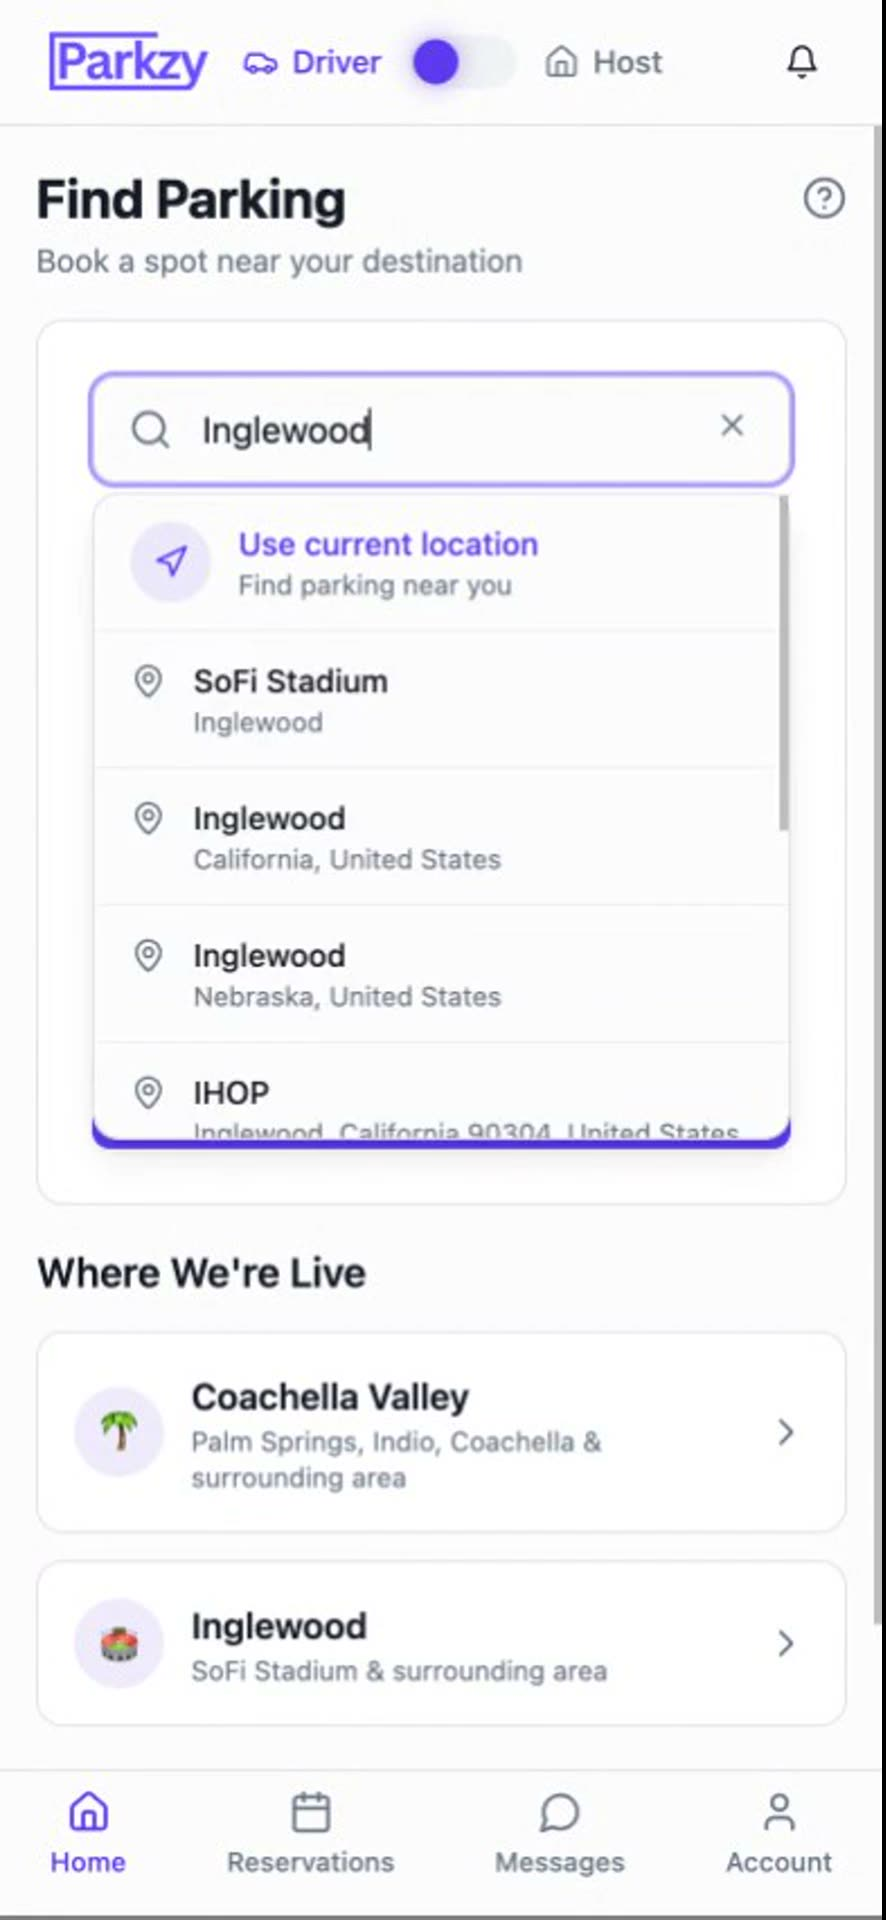
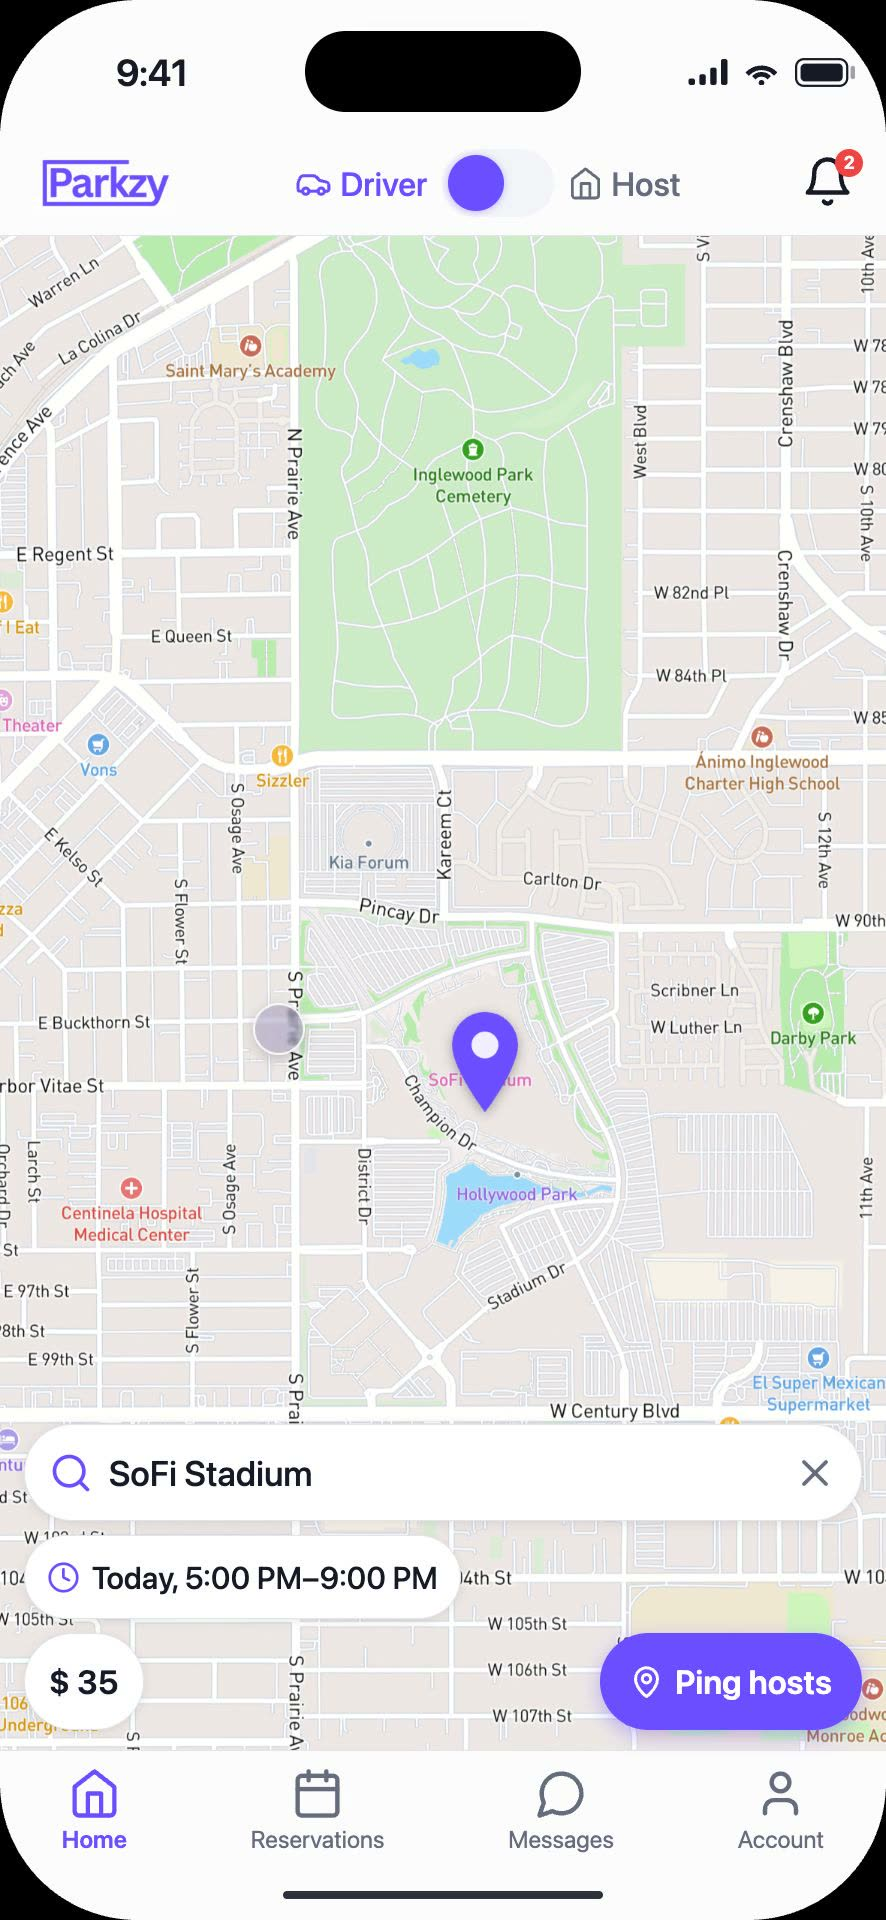
Parkzy walkthrough: swap old recording for a fresh Remotion render
Milad flagged the May screen recording as an outdated version of the app.
The walkthrough now uses the Parkway repo's Remotion demo pipeline
(parkzy-demo-video, composition ParkzyPingDemo) — a code-rendered,
frame-accurate representation of the CURRENT ping-based product —
re-rendered fresh from source (newer than the repo's last render),
trimmed before the App Store outro, and re-encoded for web (2.5MB).

- New flow steps synced to the composition's TIMING table (30fps):
  search / explore map / name your price / ping hosts / a host accepts /
  you're booked.
- Added a scrubber under the phone — frame-level control like a mini
  Remotion Studio; pauses while dragging, resumes on release.
- Step chips still highlight live and seek on tap; autoplay-when-visible
  and reduced-motion behavior unchanged.

diff --git a/public/work/parkzy/demo.js b/public/work/parkzy/demo.js
@@ -1,20 +1,20 @@
-/* Parkzy walkthrough — the REAL app, not a mock. Self-contained, no deps.
- * Boots when #pk-walk is on the page (injected by project/main.ts).
+/* Parkzy walkthrough — code-rendered from the app's Remotion demo pipeline
+ * (Parkway/parkzy-demo-video, composition ParkzyPingDemo), so it always
+ * matches the current product. Self-contained, no deps; boots when #pk-walk
+ * is on the page (injected by project/main.ts).
  *
- * A screen recording of the actual product books a real spot near SoFi
- * Stadium. Step chips are synced to the recording's beat timestamps
- * (from the demo-recorder's beats.json): they highlight as the video plays,
- * and clicking one seeks the video to that moment.
+ * Interactions: step chips highlight in sync with the video (timestamps from
+ * the composition's TIMING table, 30fps), clicking a step seeks the video,
+ * and the scrubber gives frame-level control like a mini Remotion Studio.
  */
 (() => {
   const root = document.getElementById("pk-walk");
   if (!root) return;
 
   const video = root.querySelector("#pk-video");
+  const scrub = root.querySelector("#pk-scrub");
   const steps = [...root.querySelectorAll(".pk-flow button")];
   const reduced = window.matchMedia("(prefers-reduced-motion: reduce)").matches;
-
-  if (reduced) video.setAttribute("controls", "");
 
   const times = steps.map((b) => parseFloat(b.dataset.t));
 
@@ -25,11 +25,16 @@
     });
   };
 
+  let scrubbing = false;
+
   video.addEventListener("timeupdate", () => {
     const t = video.currentTime;
     let i = 0;
-    for (let j = 0; j < times.length; j++) if (t >= times[j] - 0.2) i = j;
+    for (let j = 0; j < times.length; j++) if (t >= times[j] - 0.25) i = j;
     setActive(i);
+    if (!scrubbing && video.duration) {
+      scrub.value = Math.round((t / video.duration) * 1000);
+    }
   });
 
   steps.forEach((b, i) => {
@@ -40,12 +45,34 @@
     });
   });
 
+  // Scrubber: pause while dragging (frame-accurate feel), resume on release.
+  const seekToScrub = () => {
+    if (video.duration) video.currentTime = (scrub.value / 1000) * video.duration;
+  };
+  scrub.addEventListener("pointerdown", () => {
+    scrubbing = true;
+    video.pause();
+  });
+  scrub.addEventListener("input", seekToScrub);
+  const endScrub = () => {
+    if (!scrubbing) return;
+    scrubbing = false;
+    if (!reduced) video.play().catch(() => {});
+  };
+  scrub.addEventListener("pointerup", endScrub);
+  scrub.addEventListener("pointercancel", endScrub);
+  scrub.addEventListener("change", () => {
+    seekToScrub();
+    endScrub();
+  });
+
   // Play while visible, pause offscreen (saves battery, respects attention).
   if (!reduced && "IntersectionObserver" in window) {
     new IntersectionObserver(
       (entries) => {
-        if (entries[0].isIntersecting) video.play().catch(() => {});
-        else video.pause();
+        if (entries[0].isIntersecting) {
+          if (!scrubbing) video.play().catch(() => {});
+        } else video.pause();
       },
       { threshold: 0.35 }
     ).observe(video);

diff --git a/src/styles/project.css b/src/styles/project.css
@@ -571,6 +571,36 @@
 @media (min-width: 760px) {
   .pk-walk { grid-template-columns: minmax(240px, 320px) 1fr; align-items: center; }
 }
+.pk-side { display: grid; gap: 0.8rem; justify-items: center; }
+.pk-scrub {
+  -webkit-appearance: none;
+  appearance: none;
+  width: min(100%, 300px);
+  height: 5px;
+  border-radius: 999px;
+  background: rgba(255, 255, 255, 0.1);
+  outline: none;
+  cursor: none;
+}
+.pk-scrub::-webkit-slider-thumb {
+  -webkit-appearance: none;
+  appearance: none;
+  width: 16px;
+  height: 16px;
+  border-radius: 50%;
+  background: var(--cyan);
+  border: 2px solid #04060a;
+  box-shadow: 0 0 10px rgba(42, 245, 255, 0.6);
+}
+.pk-scrub::-moz-range-thumb {
+  width: 16px;
+  height: 16px;
+  border-radius: 50%;
+  background: var(--cyan);
+  border: 2px solid #04060a;
+  box-shadow: 0 0 10px rgba(42, 245, 255, 0.6);
+}
+.pk-scrub:focus-visible { outline: 2px solid var(--cyan); outline-offset: 4px; }
 .pk-phone {
   justify-self: center;
   width: min(100%, 300px);

diff --git a/work/parkzy/index.html b/work/parkzy/index.html
@@ -47,18 +47,22 @@
     </section>
       <section class="proj__section" data-reveal><div class="proj-award"><span class="proj-award__badge">★ 5.0</span><div class="proj-award__body"><b>Rated 5.0 on the App Store — live in production</b><span>Shipping as <a href="https://apps.apple.com/us/app/parkzy-find-parking-nearby/id6758564230" target="_blank" rel="noopener">Parkzy: Find Parking Nearby</a></span></div></div></section>
       <section class="proj__section" data-reveal>
-        <h2>Watch the Real Thing</h2>
-        <p>No mockups — this is a screen recording of the actual product booking a real spot near SoFi Stadium: search, live map, host's lot, order summary, pay. The steps follow along as it plays; tap one to jump the video there.</p>
+        <h2>Skip the Search. Ping a Host Instead.</h2>
+        <p>The whole product, frame-accurate: this walkthrough is <strong>rendered from code with Remotion</strong> — the same pipeline that renders Parkzy's App Store previews — so it's always the current app. The steps follow along as it plays; tap one (or scrub) to jump anywhere.</p>
         <div class="pk-walk" id="pk-walk" data-demo="parkzy">
-          <div class="pk-phone">
-            <video id="pk-video" src="parkzy-demo.mp4" poster="pk-poster.jpg" muted loop playsinline preload="metadata" aria-label="Screen recording of booking a parking spot in the Parkzy app"></video>
+          <div class="pk-side">
+            <div class="pk-phone">
+              <video id="pk-video" src="parkzy-ping-demo.mp4" poster="pk-poster.jpg" muted loop playsinline preload="metadata" aria-label="Code-rendered walkthrough of pinging a host and booking a spot in the Parkzy app"></video>
+            </div>
+            <input type="range" class="pk-scrub" id="pk-scrub" min="0" max="1000" value="0" step="1" aria-label="Scrub the walkthrough" />
           </div>
           <ol class="pk-flow" aria-label="Booking flow">
-            <li><button data-t="0" class="is-active" aria-current="step"><i>01</i><div><b>Search</b><span>Where and when — Inglewood, by SoFi Stadium.</span></div></button></li>
-            <li><button data-t="4.53" aria-current="false"><i>02</i><div><b>Explore the map</b><span>Real spots from real hosts, live prices.</span></div></button></li>
-            <li><button data-t="7.04" aria-current="false"><i>03</i><div><b>Pick a spot</b><span>$44 event lot · 0.3 mi · 6 min walk.</span></div></button></li>
-            <li><button data-t="12.4" aria-current="false"><i>04</i><div><b>Review</b><span>Host, hours, your car, price breakdown.</span></div></button></li>
-            <li><button data-t="16.19" aria-current="false"><i>05</i><div><b>Pay</b><span>Saved card or Apple Pay. You're parked.</span></div></button></li>
+            <li><button data-t="2.2" class="is-active" aria-current="step"><i>01</i><div><b>Search</b><span>Where to? SoFi Stadium, game night.</span></div></button></li>
+            <li><button data-t="6.9" aria-current="false"><i>02</i><div><b>Explore the map</b><span>Hosts within walking distance, live prices.</span></div></button></li>
+            <li><button data-t="11.0" aria-current="false"><i>03</i><div><b>Name your price</b><span>What's it worth to you? You set the number.</span></div></button></li>
+            <li><button data-t="14.9" aria-current="false"><i>04</i><div><b>Ping hosts</b><span>One request to every host you pick — at once.</span></div></button></li>
+            <li><button data-t="24.0" aria-current="false"><i>05</i><div><b>A host accepts</b><span>Real humans on the other side — one tap to earn.</span></div></button></li>
+            <li><button data-t="30.5" aria-current="false"><i>06</i><div><b>You're booked</b><span>Address, hours, your car. Drive up, pull in, done.</span></div></button></li>
           </ol>
         </div>
         <div class="pk-stats">
@@ -66,7 +70,7 @@
           <div class="pk-stat"><b>&lt;60s</b><span>typical host response</span></div>
           <div class="pk-stat"><b>100%</b><span>in-app payment — no cash, no Venmo</span></div>
         </div>
-        <p class="proj-note">Recorded from the production app. Live map at <a href="https://useparkzy.com" target="_blank" rel="noopener" style="color:var(--cyan)">useparkzy.com ↗</a></p>
+        <p class="proj-note">Live map at <a href="https://useparkzy.com" target="_blank" rel="noopener" style="color:var(--cyan)">useparkzy.com ↗</a></p>
       </section>
       <section class="proj__section" data-reveal>
         <h2>How It Works</h2>